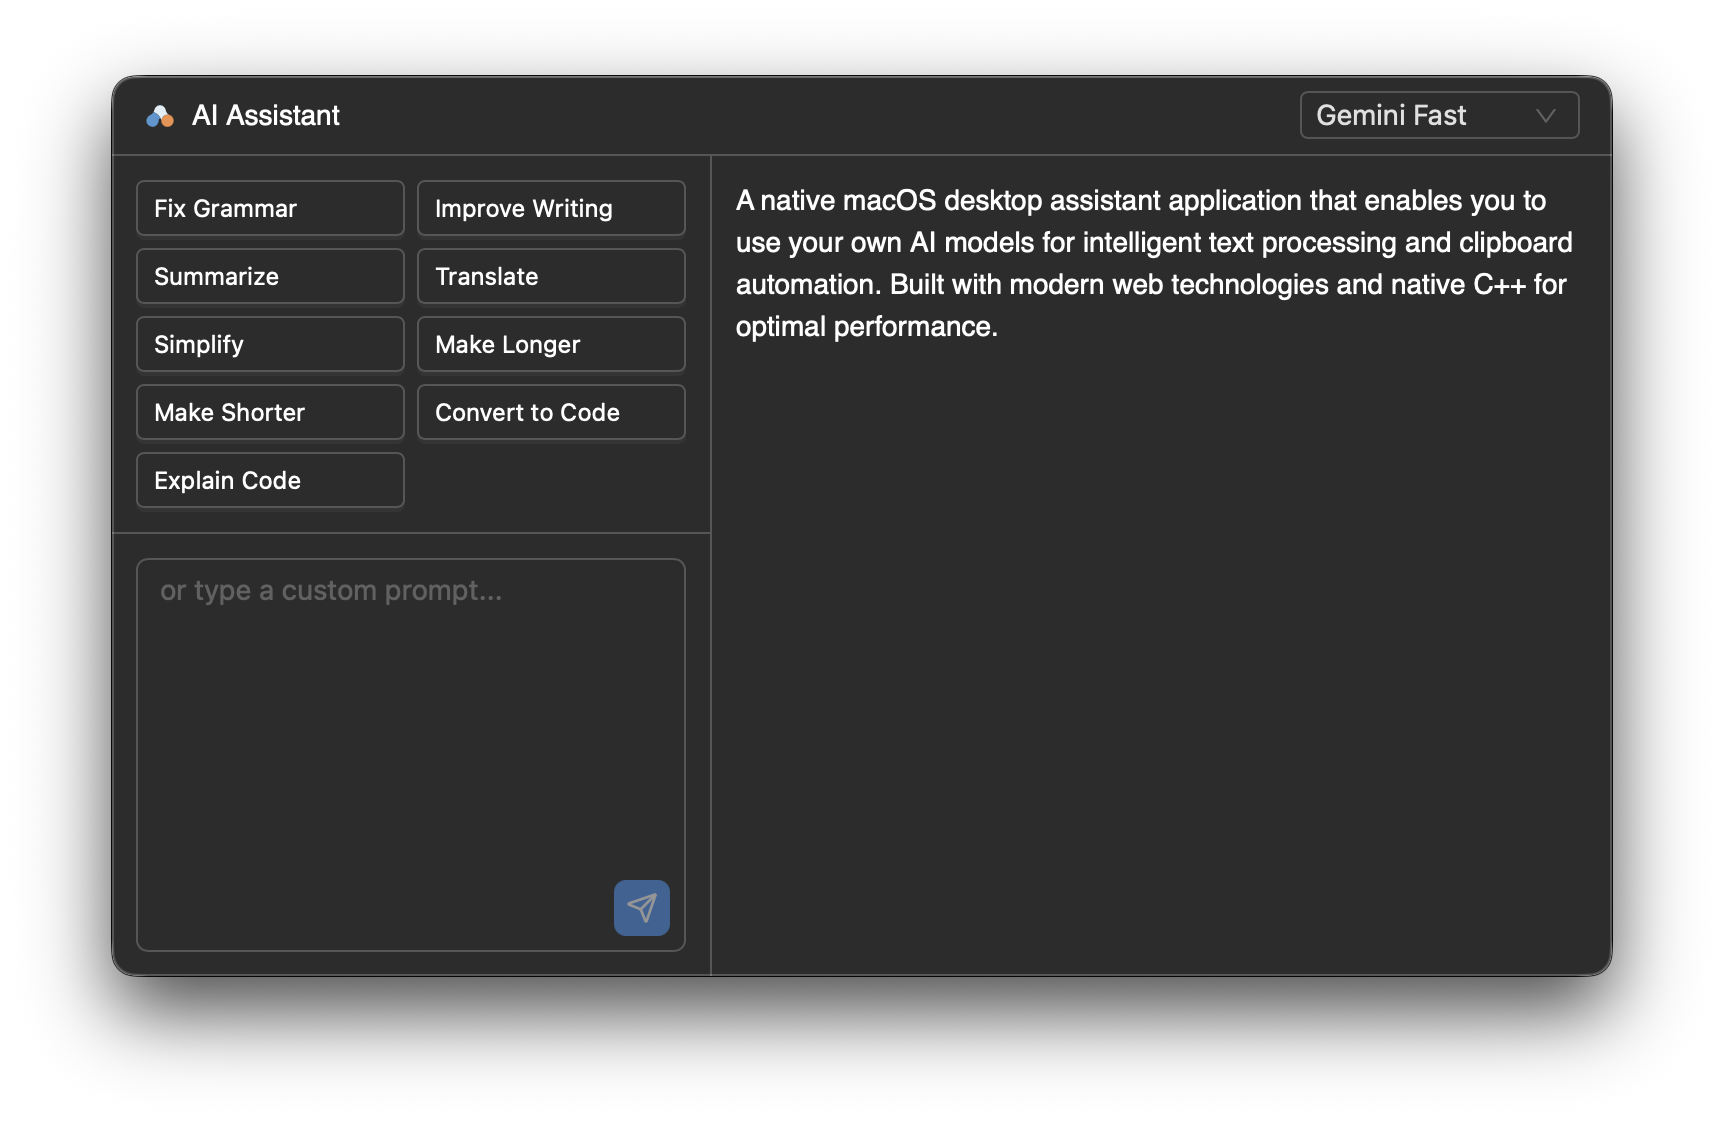
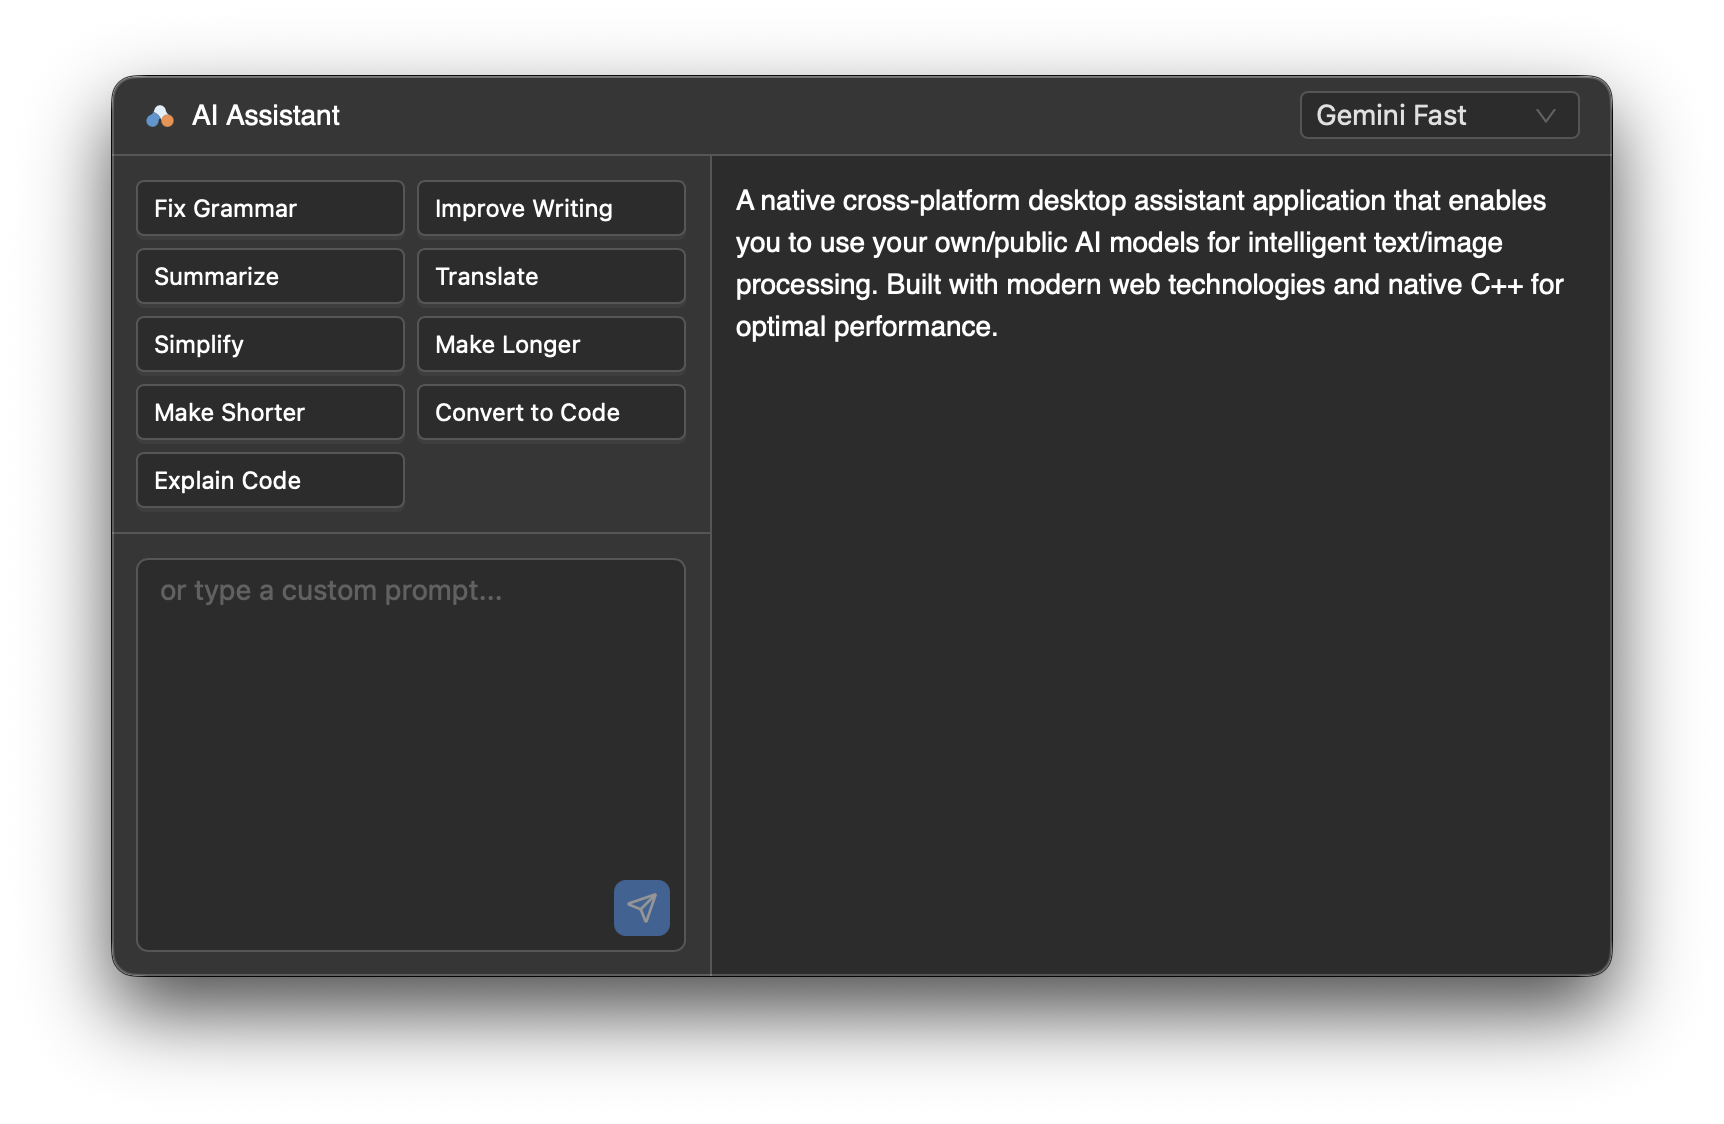
Readme and License updates

Changed region(s): [[0.4304, 0.1557, 0.9223, 0.2802]]

diff --git a/README.md b/README.md
@@ -44,7 +44,7 @@ This application consists of two main components:
   - Assistant popup for AI interactions
   - Settings dialog for LLM and action configuration
   - Clipboard data processing
-  - Real-time communication with native backend via Saucer bridge
+  - Menubar entry for quick access
 
 ## Getting Started
 
@@ -52,7 +52,7 @@ This application consists of two main components:
 
 - **macOS** 13.3 (Ventura) or later
 - **Node.js** >= 16.0.0
-- **npm** or **yarn**
+- **yarn**
 - **CMake** >= 3.16
 - **Xcode Command Line Tools** (includes C++23 compiler)
   ```bash
@@ -70,24 +70,17 @@ This application consists of two main components:
 2. **Install JavaScript dependencies**
    ```bash
    yarn install
-   # or
-   npm install
    ```
 
 3. **Build the web frontend**
    ```bash
    yarn build
-   # or
-   npm run build
    ```
 
 4. **Configure and build the native application**
    ```bash
    yarn cmake:configure
    yarn cmake:build
-   # or
-   npm run cmake:configure
-   npm run cmake:build
    ```
 
 5. **Run the application**
@@ -123,8 +116,6 @@ This application consists of two main components:
 Start the Vite development server with hot reloading:
 ```bash
 yarn dev
-# or
-npm run dev
 ```
 
 This will start a development server at `http://localhost:3000` where you can preview the web UI independently.
@@ -171,15 +162,6 @@ yarn format
 ├── src/
 │   ├── native/              # C++ native backend
 │   │   ├── include/         # Header files
-│   │   │   ├── app-controller.hpp
-│   │   │   ├── menubar-controller.hpp
-│   │   │   ├── window-wrapper.hpp
-│   │   │   ├── webview-wrapper.hpp
-│   │   │   ├── clipboard.hpp
-│   │   │   ├── shortcut.hpp
-│   │   │   ├── vault.hpp
-│   │   │   ├── network.hpp
-│   │   │   └── logger.hpp
 │   │   ├── source/          # Implementation files
 │   │   │   ├── xplat/       # Cross-platform code
 │   │   │   ├── mac/         # macOS-specific code (.mm)
@@ -188,16 +170,9 @@ yarn format
 │   │       └── mac/         # macOS resources (icons, plist)
 │   └── web/                 # React web frontend
 │       ├── components/      # React components
-│       │   ├── assistant-popup.tsx
-│       │   └── settings-dialog.tsx
 │       ├── stores/          # State management
 │       ├── utils/           # Utility functions
-│       │   ├── vault.ts     # Vault integration
-│       │   ├── llm.ts       # LLM API calls
-│       │   └── utility.ts   # Helper functions
 │       ├── styles/          # CSS stylesheets
-│       ├── App.tsx          # Main application component
-│       └── main.tsx         # Application entry point
 ├── build/                   # Build output directory
 │   ├── Resources/           # Built web assets
 │   └── Debug/               # Debug build
@@ -205,7 +180,6 @@ yarn format
 ├── CMakeLists.txt          # CMake configuration
 ├── vite.config.ts          # Vite build configuration
 ├── package.json            # Node.js dependencies and scripts
-├── tsconfig.json           # TypeScript configuration
 └── README.md               # This file
 ```
 
@@ -303,7 +277,7 @@ Contributions are welcome! Here's how to get started:
 
 - Follow the existing code style (use `.clang-format` for C++ code)
 - Write clear commit messages
-- Test on macOS before submitting
+- Test on macOS and WindowsOS before submitting
 - Update documentation as needed
 - For C++ code, ensure C++23 compatibility
 
@@ -334,14 +308,10 @@ Contributions are welcome! Here's how to get started:
 
 Potential future features:
 
-- [ ] Support for Windows and Linux
+- [ ] Support for Linux
 - [ ] Image processing capabilities
-- [ ] Voice input support
-- [ ] Custom keyboard shortcuts per action
-- [ ] Action history and favorites
-- [ ] Streaming responses for better UX
-- [ ] Plugin system for extensibility
-- [ ] Support for local LLM models (Ollama, LM Studio)
+- [ ] Custom keyboard shortcut
+- [ ] Action local history
 
 ## License
 
